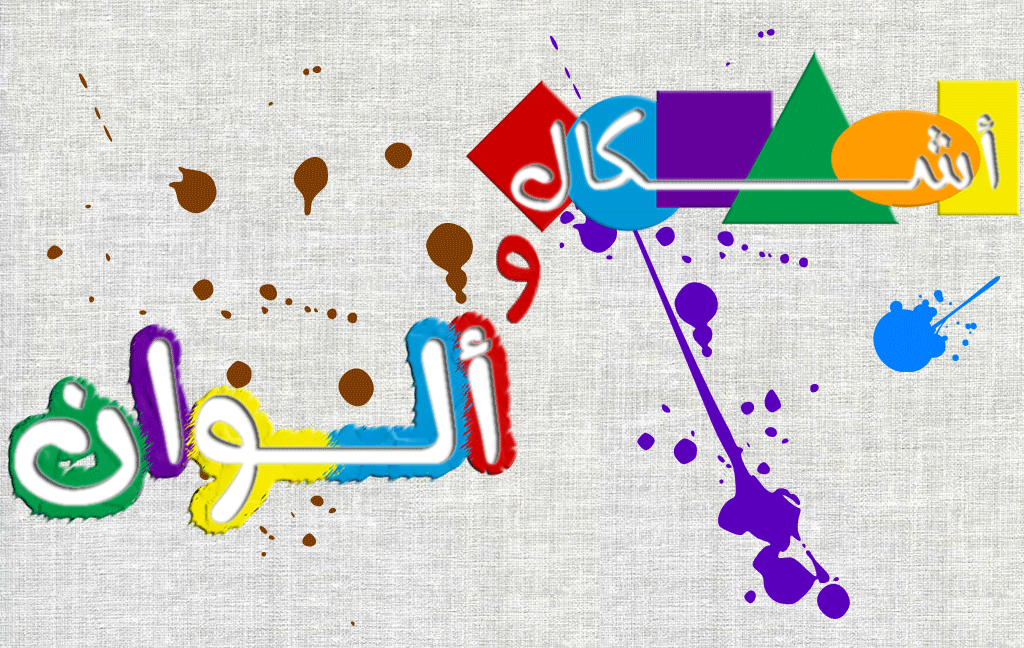
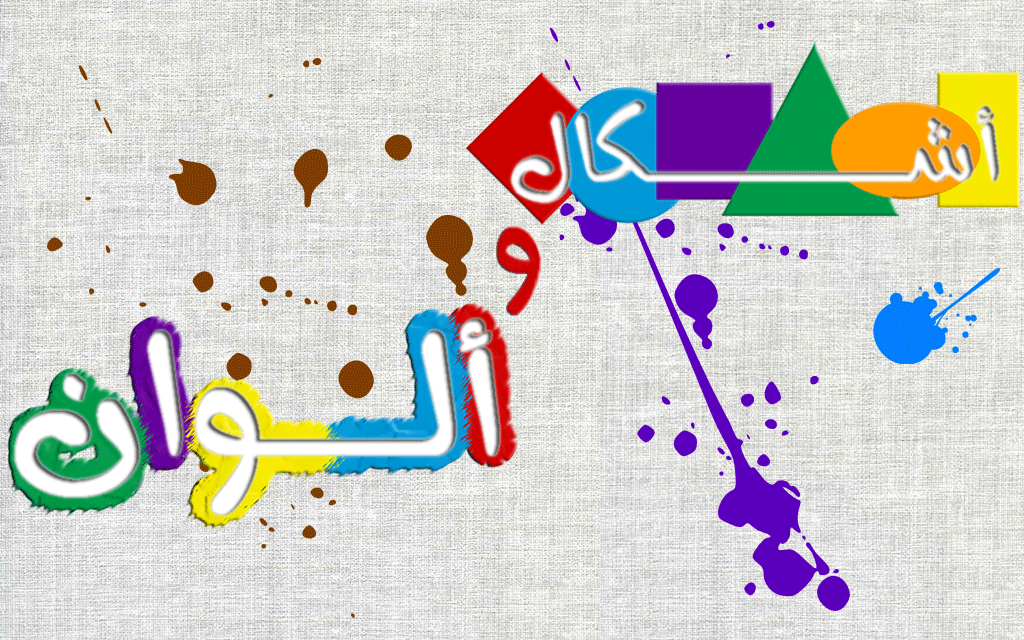
Fixes subtitle typo and image heights

Changed region(s): [[0.0, 0.0, 1.0, 0.9375]]

diff --git a/_site/index.html b/_site/index.html
@@ -1,1 +1,1 @@
-<!DOCTYPE html> <html lang="en" class="no-js"> <head> <meta charset="UTF-8" /> <meta http-equiv="X-UA-Compatible" content="IE=edge"> <meta name="viewport" content="width=device-width, initial-scale=1"> <title>Awladuna</title> <meta name="description" content="The Future of Out Ummah" /> <meta name="keywords" content="Mobile Apps, Arabic, Games" /> <meta name="author" content="Obada" /> <link rel="shortcut icon" href="img/favicon.png"> <link rel="stylesheet" type="text/css" href="css/normalize.css" /> <link rel="stylesheet" type="text/css" href="fonts/font-awesome-4.3.0/css/font-awesome.min.css" /> <link rel="stylesheet" type="text/css" href="css/modern-blog.css" /> <!--[if IE]> <script src="http://html5shiv.googlecode.com/svn/trunk/html5.js"></script> <![endif]--> <script> if (navigator.userAgent.toLowerCase().indexOf('firefox') > -1) { var root = document.getElementsByTagName('html')[0]; root.setAttribute('class', 'ff'); }; </script> </head> <body class="body"> <div class="container"> <header class="header"> <h1>Awladuna<span>The Future of Out Ummah</span></h1> <nav class="links"> <a href="#"><i class="fa fa-twitter-square fa-3x"></i></a> <a href="#"><i class="fa fa-instagram fa-3x"></i></a> <a href="#"><i class="fa fa-facebook-square fa-3x"></i></a> <a href="#"><i class="fa fa-tumblr-square fa-3x"></i></a> </nav> </header> <div class="content"> <!-- trianglify pattern container --> <div class="pattern pattern--hidden"></div> <!-- cards --> <div class="wrapper"> <div class="card"> <div class="card__container card__container--closed"> <svg class="card__image" xmlns="http://www.w3.org/2000/svg" xmlns:xlink="http://www.w3.org/1999/xlink" viewBox="0 0 1920 1200" preserveAspectRatio="xMidYMid slice"> <defs> <clipPath id="easy-way-to-learn-the-arabic-alphabet-abjadiyah-for-preschoolers"> <polygon class="clip" points="0,1200 0,0 1920,0 1920,1200"></polygon> </clipPath> </defs> <image clip-path="url(#easy-way-to-learn-the-arabic-alphabet-abjadiyah-for-preschoolers)" width="1920" height="1200" xlink:href="img/abjad.png"></image> </svg> <div class="card__content"> <i class="card__btn-close fa fa-times"></i> <div class="card__caption"> <h2 class="card__title">Abjad</h2> <p class="card__subtitle">Easy way to learn the Arabic alphabet (Abjadiyah) for preschoolers</p> </div> <div class="card__copy"> <div class="meta"> <img class="meta__avatar" src="img/authors/awladuna.png" /> <span class="meta__author">Awladuna</span> <span class="meta__date">Oct 31, 2015</span> </div> <h3 id="dolor-sit-amet">Dolor sit amet?</h3> <p>Lorem ipsum dolor sit amet, consectetur adipiscing elit. Proin vestibulum non mi non pulvinar. Donec tempus risus vel ex fringilla tempor. Vivamus pharetra non mauris quis fermentum. Vestibulum sed maximus elit, sit amet suscipit orci. Morbi at enim at libero dignissim egestas vel ac nisi. Etiam at lectus a arcu sodales consequat. Aliquam consequat ligula sed purus tincidunt, a ultrices nibh dapibus. Phasellus convallis ipsum nec semper ultricies. In facilisis lacus velit, sit amet lacinia velit blandit id. Nullam ut magna erat. Aliquam sit amet dapibus odio, aliquet tempus tortor. Donec in nisi massa.</p> <h3 id="aliquam-suscipit">Aliquam suscipit.</h3> <p>Cras eget nisl accumsan, porta nisl in, egestas sapien. Vestibulum gravida nulla sed facilisis tempor. Suspendisse maximus nisi sit amet velit sodales fringilla. Vivamus luctus risus eget dui consectetur porttitor. Maecenas ut ultrices orci. Maecenas mollis est eu sodales mollis. Nulla facilisi. Suspendisse eros arcu, elementum sed sem eu, pharetra rhoncus odio. Proin nec tincidunt velit. Cras nisl augue, faucibus sed mauris in, vestibulum mollis nisl. Nam id libero ultrices, consequat ex vitae, convallis nulla.</p> <p>Suspendisse lorem odio, blandit at nisl quis, hendrerit tempus tellus. Donec eget leo quis nisi vulputate consectetur. Praesent dignissim enim elit, congue luctus nisl cursus at. Sed rutrum molestie risus. Donec vulputate gravida accumsan. Vivamus tempus ullamcorper eleifend. Sed sagittis mi ut dolor tincidunt, ac rutrum nisi commodo.</p> <p>Fusce non elit in diam rutrum vestibulum. Donec vitae elementum erat. Praesent elementum eget justo at bibendum. Fusce interdum diam lorem, ut placerat elit pretium quis. Quisque eu urna at quam commodo sagittis. Etiam posuere convallis tincidunt. Phasellus vitae ligula neque. Vivamus a purus at dolor iaculis placerat. Curabitur convallis eu lacus congue sagittis.</p> <p>Aliquam suscipit fermentum mauris a accumsan. In facilisis, mauris quis pulvinar tempus, turpis sapien sodales nibh, nec feugiat augue est quis nisi. Fusce eget odio feugiat, luctus quam et, dapibus nulla. Sed ornare lacus non libero lacinia pretium. In eu dui vitae purus euismod feugiat ac ac est. Morbi vitae pretium lorem, non eleifend felis. Nullam at massa feugiat, rutrum elit at, semper lacus. Etiam vel rutrum felis. Nullam quis auctor lorem, et tempor arcu.</p> </div> </div> </div> </div> <div class="card"> <div class="card__container card__container--closed"> <svg class="card__image" xmlns="http://www.w3.org/2000/svg" xmlns:xlink="http://www.w3.org/1999/xlink" viewBox="0 0 1920 1200" preserveAspectRatio="xMidYMid slice"> <defs> <clipPath id="teaches-basic-reading-skills-to-little-kids-in-a-fun-colorful-way"> <polygon class="clip" points="0,1200 0,0 1920,0 1920,1200"></polygon> </clipPath> </defs> <image clip-path="url(#teaches-basic-reading-skills-to-little-kids-in-a-fun-colorful-way)" width="1920" height="1200" xlink:href="img/qamoosi.png"></image> </svg> <div class="card__content"> <i class="card__btn-close fa fa-times"></i> <div class="card__caption"> <h2 class="card__title">Qamoosi</h2> <p class="card__subtitle">Teaches basic reading skills to little kids in a fun, colorful way</p> </div> <div class="card__copy"> <div class="meta"> <img class="meta__avatar" src="img/authors/awladuna.png" /> <span class="meta__author">Awladun</span> <span class="meta__date">May 23, 2015</span> </div> <h3 id="dolor-sit-amet">Dolor sit amet?</h3> <p>Lorem ipsum dolor sit amet, consectetur adipiscing elit. Proin vestibulum non mi non pulvinar. Donec tempus risus vel ex fringilla tempor. Vivamus pharetra non mauris quis fermentum. Vestibulum sed maximus elit, sit amet suscipit orci. Morbi at enim at libero dignissim egestas vel ac nisi. Etiam at lectus a arcu sodales consequat. Aliquam consequat ligula sed purus tincidunt, a ultrices nibh dapibus. Phasellus convallis ipsum nec semper ultricies. In facilisis lacus velit, sit amet lacinia velit blandit id. Nullam ut magna erat. Aliquam sit amet dapibus odio, aliquet tempus tortor. Donec in nisi massa.</p> <h3 id="aliquam-suscipit">Aliquam suscipit.</h3> <p>Cras eget nisl accumsan, porta nisl in, egestas sapien. Vestibulum gravida nulla sed facilisis tempor. Suspendisse maximus nisi sit amet velit sodales fringilla. Vivamus luctus risus eget dui consectetur porttitor. Maecenas ut ultrices orci. Maecenas mollis est eu sodales mollis. Nulla facilisi. Suspendisse eros arcu, elementum sed sem eu, pharetra rhoncus odio. Proin nec tincidunt velit. Cras nisl augue, faucibus sed mauris in, vestibulum mollis nisl. Nam id libero ultrices, consequat ex vitae, convallis nulla.</p> <p>Suspendisse lorem odio, blandit at nisl quis, hendrerit tempus tellus. Donec eget leo quis nisi vulputate consectetur. Praesent dignissim enim elit, congue luctus nisl cursus at. Sed rutrum molestie risus. Donec vulputate gravida accumsan. Vivamus tempus ullamcorper eleifend. Sed sagittis mi ut dolor tincidunt, ac rutrum nisi commodo.</p> <p>Fusce non elit in diam rutrum vestibulum. Donec vitae elementum erat. Praesent elementum eget justo at bibendum. Fusce interdum diam lorem, ut placerat elit pretium quis. Quisque eu urna at quam commodo sagittis. Etiam posuere convallis tincidunt. Phasellus vitae ligula neque. Vivamus a purus at dolor iaculis placerat. Curabitur convallis eu lacus congue sagittis.</p> <p>Aliquam suscipit fermentum mauris a accumsan. In facilisis, mauris quis pulvinar tempus, turpis sapien sodales nibh, nec feugiat augue est quis nisi. Fusce eget odio feugiat, luctus quam et, dapibus nulla. Sed ornare lacus non libero lacinia pretium. In eu dui vitae purus euismod feugiat ac ac est. Morbi vitae pretium lorem, non eleifend felis. Nullam at massa feugiat, rutrum elit at, semper lacus. Etiam vel rutrum felis. Nullam quis auctor lorem, et tempor arcu.</p> </div> </div> </div> </div> <div class="card"> <div class="card__container card__container--closed"> <svg class="card__image" xmlns="http://www.w3.org/2000/svg" xmlns:xlink="http://www.w3.org/1999/xlink" viewBox="0 0 1920 1200" preserveAspectRatio="xMidYMid slice"> <defs> <clipPath id="easy-way-to-learn-the-arabic-colors-and-shapes-for-kids"> <polygon class="clip" points="0,1200 0,0 1920,0 1920,1200"></polygon> </clipPath> </defs> <image clip-path="url(#easy-way-to-learn-the-arabic-colors-and-shapes-for-kids)" width="1920" height="1200" xlink:href="img/ashkal.png"></image> </svg> <div class="card__content"> <i class="card__btn-close fa fa-times"></i> <div class="card__caption"> <h2 class="card__title">Ashkal Wa Alwan</h2> <p class="card__subtitle">Easy way to learn the Arabic colors and shapes for kids</p> </div> <div class="card__copy"> <div class="meta"> <img class="meta__avatar" src="img/authors/awladuna.png" /> <span class="meta__author">Awladuna</span> <span class="meta__date">Apr 16, 2013</span> </div> <h3 id="dolor-sit-amet">Dolor sit amet?</h3> <p>Lorem ipsum dolor sit amet, consectetur adipiscing elit. Proin vestibulum non mi non pulvinar. Donec tempus risus vel ex fringilla tempor. Vivamus pharetra non mauris quis fermentum. Vestibulum sed maximus elit, sit amet suscipit orci. Morbi at enim at libero dignissim egestas vel ac nisi. Etiam at lectus a arcu sodales consequat. Aliquam consequat ligula sed purus tincidunt, a ultrices nibh dapibus. Phasellus convallis ipsum nec semper ultricies. In facilisis lacus velit, sit amet lacinia velit blandit id. Nullam ut magna erat. Aliquam sit amet dapibus odio, aliquet tempus tortor. Donec in nisi massa.</p> <h3 id="aliquam-suscipit">Aliquam suscipit.</h3> <p>Cras eget nisl accumsan, porta nisl in, egestas sapien. Vestibulum gravida nulla sed facilisis tempor. Suspendisse maximus nisi sit amet velit sodales fringilla. Vivamus luctus risus eget dui consectetur porttitor. Maecenas ut ultrices orci. Maecenas mollis est eu sodales mollis. Nulla facilisi. Suspendisse eros arcu, elementum sed sem eu, pharetra rhoncus odio. Proin nec tincidunt velit. Cras nisl augue, faucibus sed mauris in, vestibulum mollis nisl. Nam id libero ultrices, consequat ex vitae, convallis nulla.</p> <p>Suspendisse lorem odio, blandit at nisl quis, hendrerit tempus tellus. Donec eget leo quis nisi vulputate consectetur. Praesent dignissim enim elit, congue luctus nisl cursus at. Sed rutrum molestie risus. Donec vulputate gravida accumsan. Vivamus tempus ullamcorper eleifend. Sed sagittis mi ut dolor tincidunt, ac rutrum nisi commodo.</p> <p>Fusce non elit in diam rutrum vestibulum. Donec vitae elementum erat. Praesent elementum eget justo at bibendum. Fusce interdum diam lorem, ut placerat elit pretium quis. Quisque eu urna at quam commodo sagittis. Etiam posuere convallis tincidunt. Phasellus vitae ligula neque. Vivamus a purus at dolor iaculis placerat. Curabitur convallis eu lacus congue sagittis.</p> <p>Aliquam suscipit fermentum mauris a accumsan. In facilisis, mauris quis pulvinar tempus, turpis sapien sodales nibh, nec feugiat augue est quis nisi. Fusce eget odio feugiat, luctus quam et, dapibus nulla. Sed ornare lacus non libero lacinia pretium. In eu dui vitae purus euismod feugiat ac ac est. Morbi vitae pretium lorem, non eleifend felis. Nullam at massa feugiat, rutrum elit at, semper lacus. Etiam vel rutrum felis. Nullam quis auctor lorem, et tempor arcu.</p> </div> </div> </div> </div> <!-- /cards --> </div> </div> <!-- /container --> <!-- JS --> <script src="js/vendors/trianglify.min.js"></script> <script src="js/vendors/TweenMax.min.js"></script> <script src="js/vendors/ScrollToPlugin.min.js"></script> <script src="js/vendors/cash.min.js"></script> <script src="js/card-modern-blog.min.js"></script> <script src="js/modern-blog.min.js"></script> </body> </html>
+<!DOCTYPE html> <html lang="en" class="no-js"> <head> <meta charset="UTF-8" /> <meta http-equiv="X-UA-Compatible" content="IE=edge"> <meta name="viewport" content="width=device-width, initial-scale=1"> <title>Awladuna</title> <meta name="description" content="The Future of Our Ummah" /> <meta name="keywords" content="Mobile Apps, Arabic, Games" /> <meta name="author" content="Obada" /> <link rel="shortcut icon" href="img/favicon.png"> <link rel="stylesheet" type="text/css" href="css/normalize.css" /> <link rel="stylesheet" type="text/css" href="fonts/font-awesome-4.3.0/css/font-awesome.min.css" /> <link rel="stylesheet" type="text/css" href="css/modern-blog.css" /> <!--[if IE]> <script src="http://html5shiv.googlecode.com/svn/trunk/html5.js"></script> <![endif]--> <script> if (navigator.userAgent.toLowerCase().indexOf('firefox') > -1) { var root = document.getElementsByTagName('html')[0]; root.setAttribute('class', 'ff'); }; </script> </head> <body class="body"> <div class="container"> <header class="header"> <h1>Awladuna<span>The Future of Our Ummah</span></h1> <nav class="links"> <a href="#"><i class="fa fa-twitter-square fa-3x"></i></a> <a href="#"><i class="fa fa-instagram fa-3x"></i></a> <a href="#"><i class="fa fa-facebook-square fa-3x"></i></a> <a href="#"><i class="fa fa-tumblr-square fa-3x"></i></a> </nav> </header> <div class="content"> <!-- trianglify pattern container --> <div class="pattern pattern--hidden"></div> <!-- cards --> <div class="wrapper"> <div class="card"> <div class="card__container card__container--closed"> <svg class="card__image" xmlns="http://www.w3.org/2000/svg" xmlns:xlink="http://www.w3.org/1999/xlink" viewBox="0 0 1920 1200" preserveAspectRatio="xMidYMid slice"> <defs> <clipPath id="easy-way-to-learn-the-arabic-alphabet-abjadiyah-for-preschoolers"> <polygon class="clip" points="0,1200 0,0 1920,0 1920,1200"></polygon> </clipPath> </defs> <image clip-path="url(#easy-way-to-learn-the-arabic-alphabet-abjadiyah-for-preschoolers)" width="1920" height="1200" xlink:href="img/abjad.png"></image> </svg> <div class="card__content"> <i class="card__btn-close fa fa-times"></i> <div class="card__caption"> <h2 class="card__title">Abjad</h2> <p class="card__subtitle">Easy way to learn the Arabic alphabet (Abjadiyah) for preschoolers</p> </div> <div class="card__copy"> <div class="meta"> <img class="meta__avatar" src="img/authors/awladuna.png" /> <span class="meta__author">Awladuna</span> <span class="meta__date">Oct 31, 2015</span> </div> <h3 id="dolor-sit-amet">Dolor sit amet?</h3> <p>Lorem ipsum dolor sit amet, consectetur adipiscing elit. Proin vestibulum non mi non pulvinar. Donec tempus risus vel ex fringilla tempor. Vivamus pharetra non mauris quis fermentum. Vestibulum sed maximus elit, sit amet suscipit orci. Morbi at enim at libero dignissim egestas vel ac nisi. Etiam at lectus a arcu sodales consequat. Aliquam consequat ligula sed purus tincidunt, a ultrices nibh dapibus. Phasellus convallis ipsum nec semper ultricies. In facilisis lacus velit, sit amet lacinia velit blandit id. Nullam ut magna erat. Aliquam sit amet dapibus odio, aliquet tempus tortor. Donec in nisi massa.</p> <h3 id="aliquam-suscipit">Aliquam suscipit.</h3> <p>Cras eget nisl accumsan, porta nisl in, egestas sapien. Vestibulum gravida nulla sed facilisis tempor. Suspendisse maximus nisi sit amet velit sodales fringilla. Vivamus luctus risus eget dui consectetur porttitor. Maecenas ut ultrices orci. Maecenas mollis est eu sodales mollis. Nulla facilisi. Suspendisse eros arcu, elementum sed sem eu, pharetra rhoncus odio. Proin nec tincidunt velit. Cras nisl augue, faucibus sed mauris in, vestibulum mollis nisl. Nam id libero ultrices, consequat ex vitae, convallis nulla.</p> <p>Suspendisse lorem odio, blandit at nisl quis, hendrerit tempus tellus. Donec eget leo quis nisi vulputate consectetur. Praesent dignissim enim elit, congue luctus nisl cursus at. Sed rutrum molestie risus. Donec vulputate gravida accumsan. Vivamus tempus ullamcorper eleifend. Sed sagittis mi ut dolor tincidunt, ac rutrum nisi commodo.</p> <p>Fusce non elit in diam rutrum vestibulum. Donec vitae elementum erat. Praesent elementum eget justo at bibendum. Fusce interdum diam lorem, ut placerat elit pretium quis. Quisque eu urna at quam commodo sagittis. Etiam posuere convallis tincidunt. Phasellus vitae ligula neque. Vivamus a purus at dolor iaculis placerat. Curabitur convallis eu lacus congue sagittis.</p> <p>Aliquam suscipit fermentum mauris a accumsan. In facilisis, mauris quis pulvinar tempus, turpis sapien sodales nibh, nec feugiat augue est quis nisi. Fusce eget odio feugiat, luctus quam et, dapibus nulla. Sed ornare lacus non libero lacinia pretium. In eu dui vitae purus euismod feugiat ac ac est. Morbi vitae pretium lorem, non eleifend felis. Nullam at massa feugiat, rutrum elit at, semper lacus. Etiam vel rutrum felis. Nullam quis auctor lorem, et tempor arcu.</p> </div> </div> </div> </div> <div class="card"> <div class="card__container card__container--closed"> <svg class="card__image" xmlns="http://www.w3.org/2000/svg" xmlns:xlink="http://www.w3.org/1999/xlink" viewBox="0 0 1920 1200" preserveAspectRatio="xMidYMid slice"> <defs> <clipPath id="teaches-basic-reading-skills-to-little-kids-in-a-fun-colorful-way"> <polygon class="clip" points="0,1200 0,0 1920,0 1920,1200"></polygon> </clipPath> </defs> <image clip-path="url(#teaches-basic-reading-skills-to-little-kids-in-a-fun-colorful-way)" width="1920" height="1200" xlink:href="img/qamoosi.png"></image> </svg> <div class="card__content"> <i class="card__btn-close fa fa-times"></i> <div class="card__caption"> <h2 class="card__title">Qamoosi</h2> <p class="card__subtitle">Teaches basic reading skills to little kids in a fun, colorful way</p> </div> <div class="card__copy"> <div class="meta"> <img class="meta__avatar" src="img/authors/awladuna.png" /> <span class="meta__author">Awladun</span> <span class="meta__date">May 23, 2015</span> </div> <h3 id="dolor-sit-amet">Dolor sit amet?</h3> <p>Lorem ipsum dolor sit amet, consectetur adipiscing elit. Proin vestibulum non mi non pulvinar. Donec tempus risus vel ex fringilla tempor. Vivamus pharetra non mauris quis fermentum. Vestibulum sed maximus elit, sit amet suscipit orci. Morbi at enim at libero dignissim egestas vel ac nisi. Etiam at lectus a arcu sodales consequat. Aliquam consequat ligula sed purus tincidunt, a ultrices nibh dapibus. Phasellus convallis ipsum nec semper ultricies. In facilisis lacus velit, sit amet lacinia velit blandit id. Nullam ut magna erat. Aliquam sit amet dapibus odio, aliquet tempus tortor. Donec in nisi massa.</p> <h3 id="aliquam-suscipit">Aliquam suscipit.</h3> <p>Cras eget nisl accumsan, porta nisl in, egestas sapien. Vestibulum gravida nulla sed facilisis tempor. Suspendisse maximus nisi sit amet velit sodales fringilla. Vivamus luctus risus eget dui consectetur porttitor. Maecenas ut ultrices orci. Maecenas mollis est eu sodales mollis. Nulla facilisi. Suspendisse eros arcu, elementum sed sem eu, pharetra rhoncus odio. Proin nec tincidunt velit. Cras nisl augue, faucibus sed mauris in, vestibulum mollis nisl. Nam id libero ultrices, consequat ex vitae, convallis nulla.</p> <p>Suspendisse lorem odio, blandit at nisl quis, hendrerit tempus tellus. Donec eget leo quis nisi vulputate consectetur. Praesent dignissim enim elit, congue luctus nisl cursus at. Sed rutrum molestie risus. Donec vulputate gravida accumsan. Vivamus tempus ullamcorper eleifend. Sed sagittis mi ut dolor tincidunt, ac rutrum nisi commodo.</p> <p>Fusce non elit in diam rutrum vestibulum. Donec vitae elementum erat. Praesent elementum eget justo at bibendum. Fusce interdum diam lorem, ut placerat elit pretium quis. Quisque eu urna at quam commodo sagittis. Etiam posuere convallis tincidunt. Phasellus vitae ligula neque. Vivamus a purus at dolor iaculis placerat. Curabitur convallis eu lacus congue sagittis.</p> <p>Aliquam suscipit fermentum mauris a accumsan. In facilisis, mauris quis pulvinar tempus, turpis sapien sodales nibh, nec feugiat augue est quis nisi. Fusce eget odio feugiat, luctus quam et, dapibus nulla. Sed ornare lacus non libero lacinia pretium. In eu dui vitae purus euismod feugiat ac ac est. Morbi vitae pretium lorem, non eleifend felis. Nullam at massa feugiat, rutrum elit at, semper lacus. Etiam vel rutrum felis. Nullam quis auctor lorem, et tempor arcu.</p> </div> </div> </div> </div> <div class="card"> <div class="card__container card__container--closed"> <svg class="card__image" xmlns="http://www.w3.org/2000/svg" xmlns:xlink="http://www.w3.org/1999/xlink" viewBox="0 0 1920 1200" preserveAspectRatio="xMidYMid slice"> <defs> <clipPath id="easy-way-to-learn-the-arabic-colors-and-shapes-for-kids"> <polygon class="clip" points="0,1200 0,0 1920,0 1920,1200"></polygon> </clipPath> </defs> <image clip-path="url(#easy-way-to-learn-the-arabic-colors-and-shapes-for-kids)" width="1920" height="1200" xlink:href="img/ashkal.png"></image> </svg> <div class="card__content"> <i class="card__btn-close fa fa-times"></i> <div class="card__caption"> <h2 class="card__title">Ashkal Wa Alwan</h2> <p class="card__subtitle">Easy way to learn the Arabic colors and shapes for kids</p> </div> <div class="card__copy"> <div class="meta"> <img class="meta__avatar" src="img/authors/awladuna.png" /> <span class="meta__author">Awladuna</span> <span class="meta__date">Apr 16, 2013</span> </div> <h3 id="dolor-sit-amet">Dolor sit amet?</h3> <p>Lorem ipsum dolor sit amet, consectetur adipiscing elit. Proin vestibulum non mi non pulvinar. Donec tempus risus vel ex fringilla tempor. Vivamus pharetra non mauris quis fermentum. Vestibulum sed maximus elit, sit amet suscipit orci. Morbi at enim at libero dignissim egestas vel ac nisi. Etiam at lectus a arcu sodales consequat. Aliquam consequat ligula sed purus tincidunt, a ultrices nibh dapibus. Phasellus convallis ipsum nec semper ultricies. In facilisis lacus velit, sit amet lacinia velit blandit id. Nullam ut magna erat. Aliquam sit amet dapibus odio, aliquet tempus tortor. Donec in nisi massa.</p> <h3 id="aliquam-suscipit">Aliquam suscipit.</h3> <p>Cras eget nisl accumsan, porta nisl in, egestas sapien. Vestibulum gravida nulla sed facilisis tempor. Suspendisse maximus nisi sit amet velit sodales fringilla. Vivamus luctus risus eget dui consectetur porttitor. Maecenas ut ultrices orci. Maecenas mollis est eu sodales mollis. Nulla facilisi. Suspendisse eros arcu, elementum sed sem eu, pharetra rhoncus odio. Proin nec tincidunt velit. Cras nisl augue, faucibus sed mauris in, vestibulum mollis nisl. Nam id libero ultrices, consequat ex vitae, convallis nulla.</p> <p>Suspendisse lorem odio, blandit at nisl quis, hendrerit tempus tellus. Donec eget leo quis nisi vulputate consectetur. Praesent dignissim enim elit, congue luctus nisl cursus at. Sed rutrum molestie risus. Donec vulputate gravida accumsan. Vivamus tempus ullamcorper eleifend. Sed sagittis mi ut dolor tincidunt, ac rutrum nisi commodo.</p> <p>Fusce non elit in diam rutrum vestibulum. Donec vitae elementum erat. Praesent elementum eget justo at bibendum. Fusce interdum diam lorem, ut placerat elit pretium quis. Quisque eu urna at quam commodo sagittis. Etiam posuere convallis tincidunt. Phasellus vitae ligula neque. Vivamus a purus at dolor iaculis placerat. Curabitur convallis eu lacus congue sagittis.</p> <p>Aliquam suscipit fermentum mauris a accumsan. In facilisis, mauris quis pulvinar tempus, turpis sapien sodales nibh, nec feugiat augue est quis nisi. Fusce eget odio feugiat, luctus quam et, dapibus nulla. Sed ornare lacus non libero lacinia pretium. In eu dui vitae purus euismod feugiat ac ac est. Morbi vitae pretium lorem, non eleifend felis. Nullam at massa feugiat, rutrum elit at, semper lacus. Etiam vel rutrum felis. Nullam quis auctor lorem, et tempor arcu.</p> </div> </div> </div> </div> <!-- /cards --> </div> </div> <!-- /container --> <!-- JS --> <script src="js/vendors/trianglify.min.js"></script> <script src="js/vendors/TweenMax.min.js"></script> <script src="js/vendors/ScrollToPlugin.min.js"></script> <script src="js/vendors/cash.min.js"></script> <script src="js/card-modern-blog.min.js"></script> <script src="js/modern-blog.min.js"></script> </body> </html>
